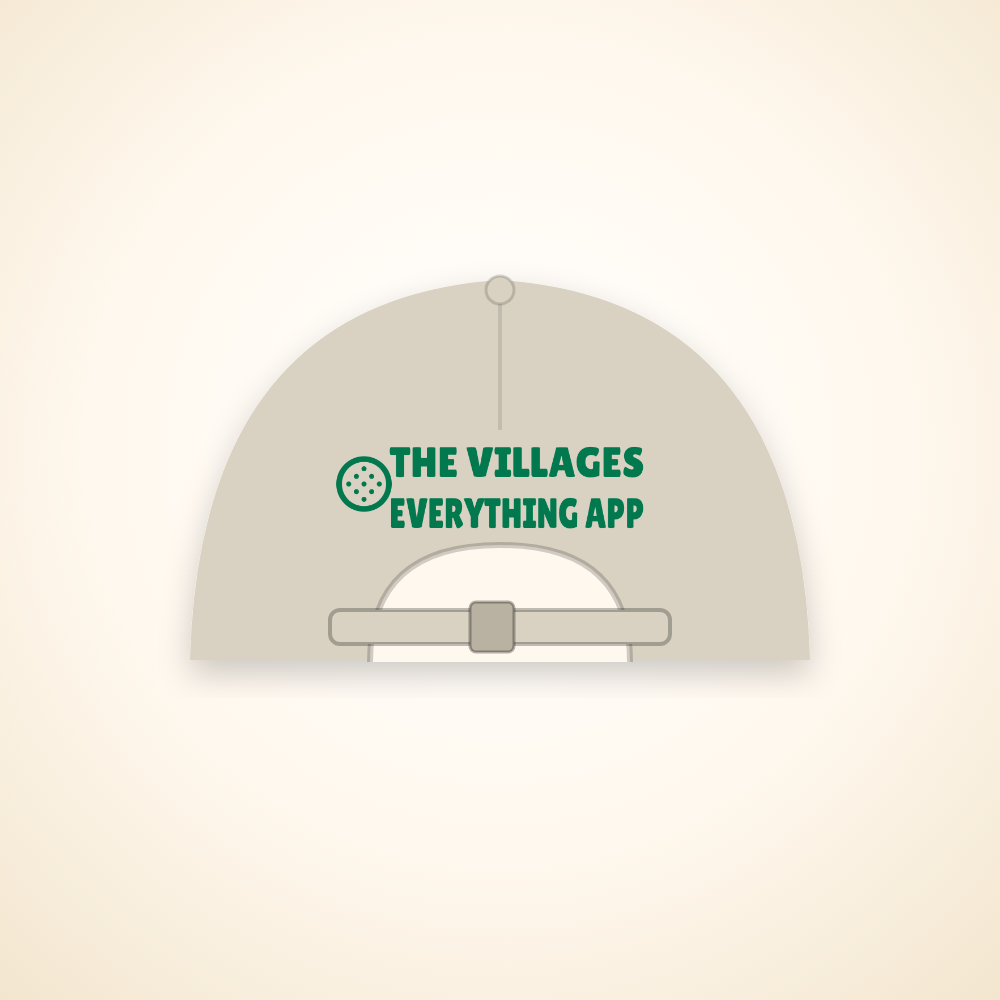
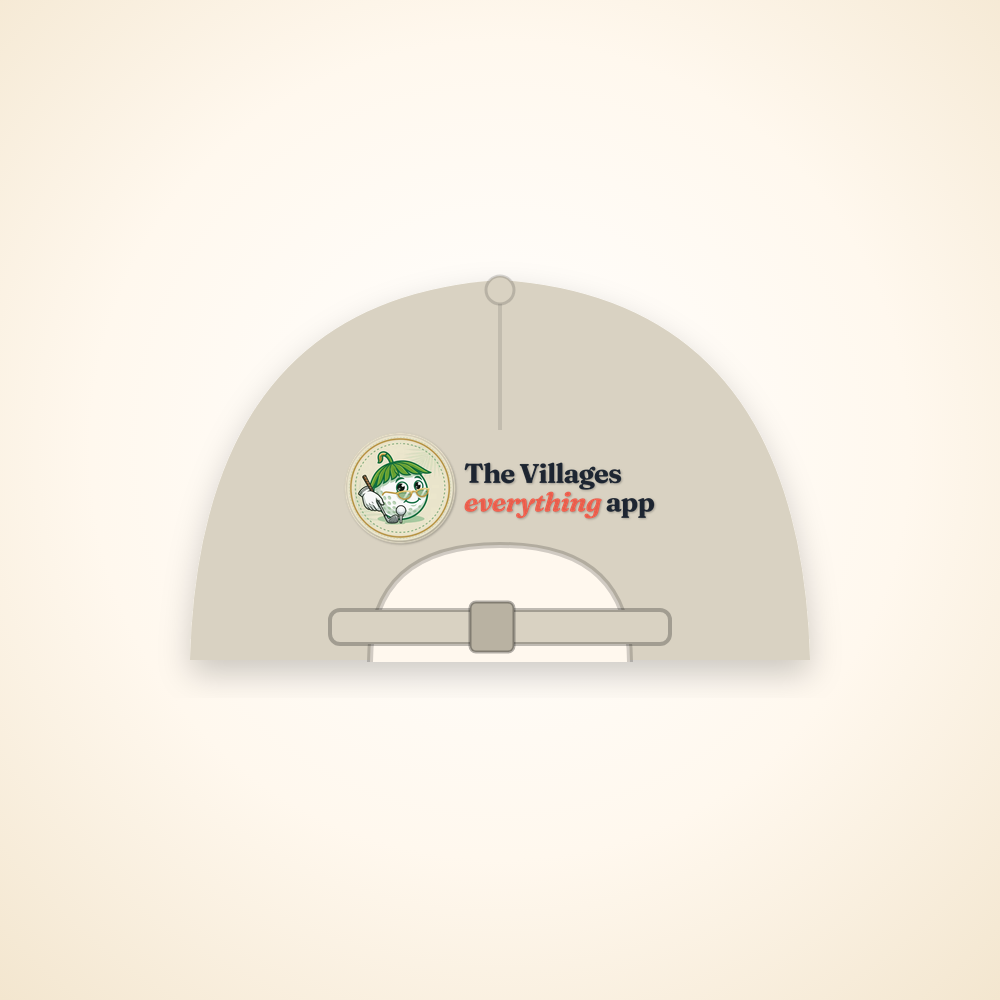
Merch v4: hat back embroidery uses golf-ball mascot badge + homepage wordmark (Fraunces, multi-color threads); tote swaps golf-cart-hero tile for the flamingo circle badge

Changed region(s): [[0.31, 0.434, 0.651, 0.558]]

diff --git a/src/lib/shop/catalog.ts b/src/lib/shop/catalog.ts
@@ -140,7 +140,7 @@ export const PRODUCTS: Product[] = [
     name: "Cart Path Only",
     tagline: "Embroidered dad hat",
     description:
-      "The one rule everybody knows, stitched on a relaxed cotton dad hat with a tiny golf ball, plus a small The Villages Everything App mark on the back above the strap. Shade for your eyes, a reminder for your cart.",
+      "The one rule everybody knows, stitched on a relaxed cotton dad hat with a tiny golf ball, plus our golf-ball mascot and The Villages Everything App wordmark on the back above the strap. Shade for your eyes, a reminder for your cart.",
     priceCents: 3000,
     image: "/shop/mock/hat-cart-path-only--khaki.png",
     colors: [
@@ -156,12 +156,12 @@ export const PRODUCTS: Product[] = [
     ],
     files: [
       { type: "embroidery_front", path: "/shop/print/hat-cart-path-only.png" },
-      // Small "The Villages Everything App" mark on the back, above the strap. One thread.
+      // Back, above the strap: golf-ball mascot badge + homepage wordmark (Fraunces 700; "everything" italic). Multi-color.
       { type: "embroidery_back", path: "/shop/print/hat-cart-path-only-back.png" },
     ],
     options: [
       { id: "thread_colors", value: ["#01784E", "#E25C27", "#FFFFFF"] },
-      { id: "thread_colors_back", value: ["#01784E"] },
+      { id: "thread_colors_back", value: ["#000000", "#E25C27", "#01784E", "#7BA35A", "#FFCC00", "#FFFFFF"] },
     ],
     taxCode: CLOTHING,
   },
